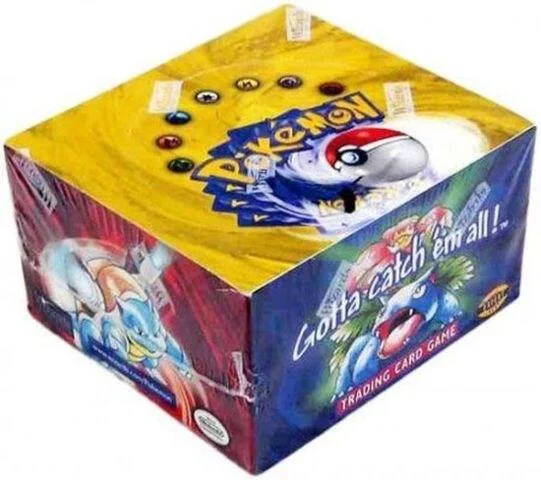
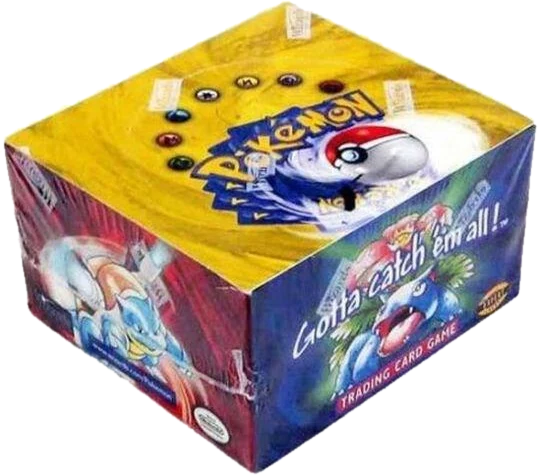
Base Set booster box image: transparent background
- The photo's white backdrop is cut away (only the white touching the edges, so the white in the
  box art stays), the edge trimmed and softened, and the empty margin cropped.
- Tiles that put a white panel behind the box now use the same soft background as sealed packs;
  on the machine the box sits on its tile's gradient.

Claude-Session: https://claude.ai/code/session_01F83evgtbjqv7A6X6ifYJLx

diff --git a/app/(app)/vending/MarketPanel.tsx b/app/(app)/vending/MarketPanel.tsx
@@ -509,7 +509,7 @@ function ListingDetail({
               <li key={i}>
                 {it.item_kind === 'box' ? (
                   <div className="relative">
-                    <div className="w-full aspect-[245/342] rounded bg-white flex items-center justify-center overflow-hidden">
+                    <div className="w-full aspect-[245/342] rounded bg-paper flex items-center justify-center overflow-hidden">
                       <img src={it.image_url} alt={it.name} className="w-full object-contain" />
                     </div>
                     <span className="absolute inset-x-0 bottom-0 bg-ink/80 text-white text-[10px] font-mono text-center py-0.5 rounded-b">
@@ -1027,7 +1027,7 @@ function Compose({ collection, packs, boxes, feePercent, onClose, onDone, onErro
                     </li>
                   )
                 })}
-                {/* Sealed boxes first: the box photo on white, the way it's sold. */}
+                {/* Sealed boxes first: the box itself, cut out, the way it is sold. */}
                 {shownBoxes.map((b) => {
                   const on = chosenBoxes.has(b.id)
                   return (
@@ -1040,7 +1040,7 @@ function Compose({ collection, packs, boxes, feePercent, onClose, onDone, onErro
                         aria-pressed={on}
                         aria-label={`${on ? 'Remove' : 'Add'} sealed ${b.name}, ${b.packs} packs`}
                       >
-                        <div className="w-full aspect-[245/342] rounded bg-white flex items-center justify-center overflow-hidden">
+                        <div className="w-full aspect-[245/342] rounded bg-paper flex items-center justify-center overflow-hidden">
                           {b.image_url && <img src={b.image_url} alt="" className="w-full object-contain" />}
                         </div>
                         <span className="absolute inset-x-0 bottom-0 bg-ink/80 text-white text-[10px] font-mono text-center py-0.5 rounded-b">

diff --git a/app/(app)/vending/ShowcasePanel.tsx b/app/(app)/vending/ShowcasePanel.tsx
@@ -331,7 +331,7 @@ export default function ShowcasePanel({
                           className="block w-full relative rounded focus-visible:outline-none focus-visible:ring-2 focus-visible:ring-signal disabled:opacity-40"
                           aria-label={`Put the sealed ${c.name} in slot ${picking + 1}`}
                         >
-                          <div className={`w-full aspect-[245/342] rounded bg-white flex items-center justify-center overflow-hidden ${already ? 'opacity-45' : ''}`}>
+                          <div className={`w-full aspect-[245/342] rounded bg-paper flex items-center justify-center overflow-hidden ${already ? 'opacity-45' : ''}`}>
                             {c.image_url && <img src={c.image_url} alt="" className="w-full object-contain" />}
                           </div>
                           <span className="absolute inset-x-0 bottom-0 bg-ink/80 text-white text-[10px] font-mono text-center py-0.5 rounded-b">

diff --git a/app/(app)/vending/CollectionPanel.tsx b/app/(app)/vending/CollectionPanel.tsx
@@ -838,7 +838,7 @@ export default function CollectionPanel({
             <ul className="grid grid-cols-2 gap-2">
               {visibleBoxes.map((b) => (
                 <li key={b.id} className="bg-card border border-card-border rounded-xl p-2 flex flex-col gap-1.5">
-                  <div className="w-full aspect-[541/480] rounded-lg bg-white overflow-hidden flex items-center justify-center">
+                  <div className="w-full aspect-[541/480] rounded-lg bg-paper overflow-hidden flex items-center justify-center">
                     {b.image_url
                       ? <img src={b.image_url} alt="" loading="lazy" className="w-full h-full object-contain" />
                       : <span className="text-xs text-muted">{b.name}</span>}

diff --git a/app/(app)/vending/VendingClient.tsx b/app/(app)/vending/VendingClient.tsx
@@ -1036,7 +1036,7 @@ function StockScreen({
                   <div className={`relative w-full aspect-[2/3] rounded-sm overflow-hidden ${soldOut || gone ? 'opacity-60 grayscale-[35%]' : ''}`}
                     style={{ background: 'radial-gradient(circle at 50% 35%, #f5f3ff, #ddd6fe)' }}>
                     {b.image_url ? (
-                      <div className="absolute inset-0 bg-white flex items-center justify-center">
+                      <div className="absolute inset-0 p-1 flex items-center justify-center">
                         <img src={b.image_url} alt="" loading="lazy" className="w-full object-contain" />
                       </div>
                     ) : arts.map((src, i) => (
